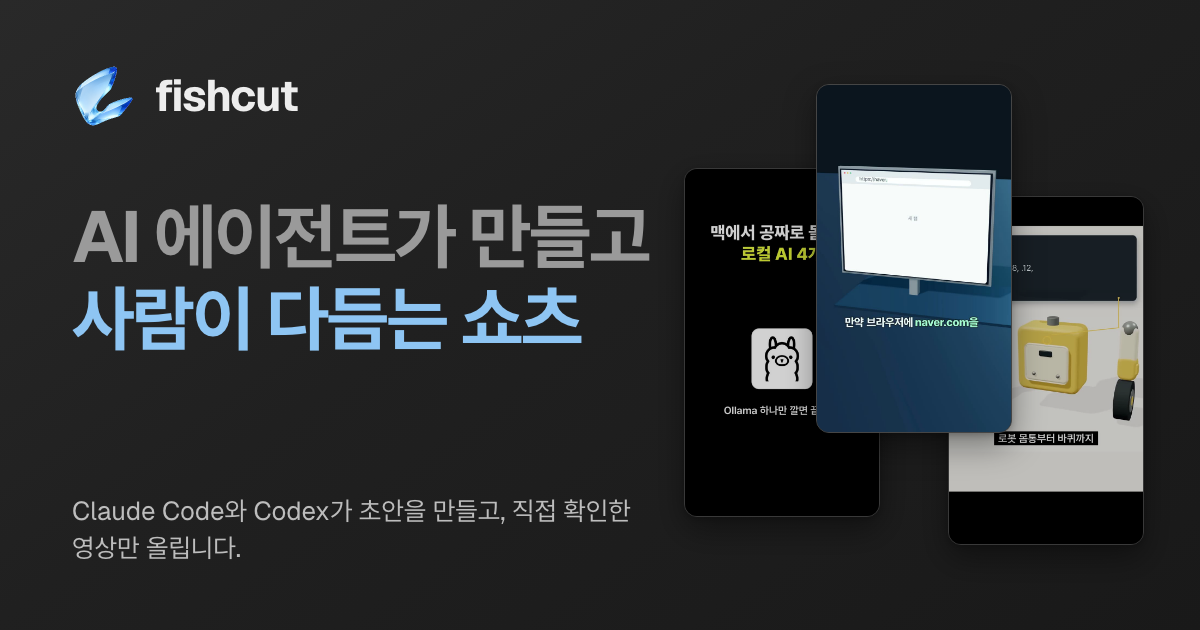
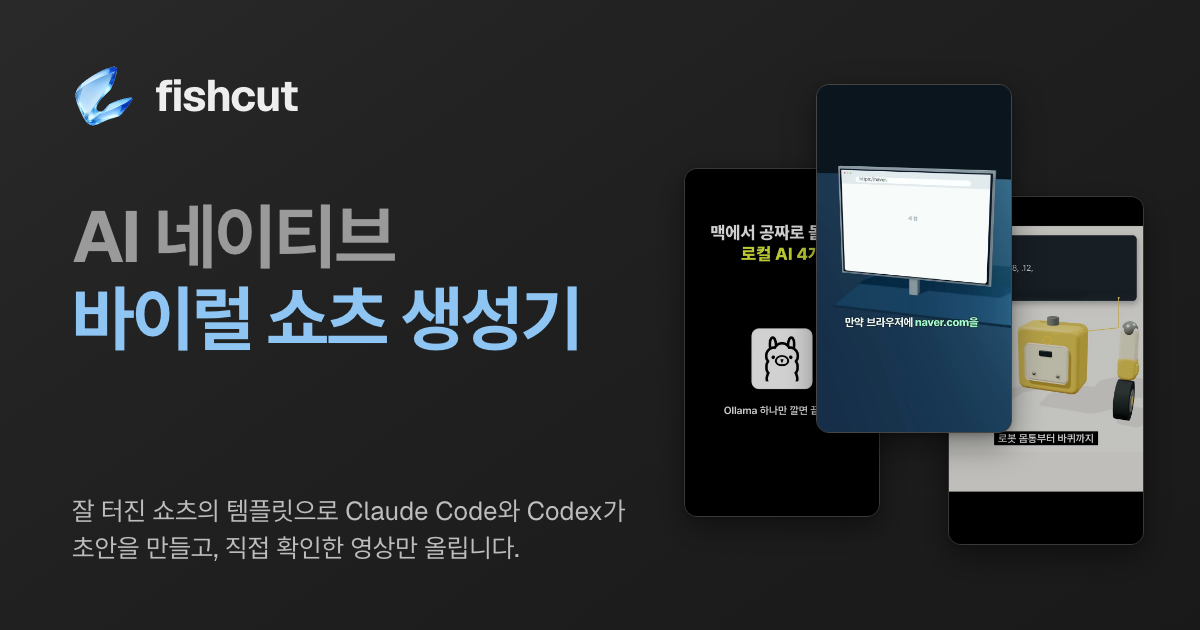
feat(site): AI 네이티브 바이럴 쇼츠 생성기로 제목, OG, 설명 갱신 (#21)

Changed region(s): [[0.0617, 0.3016, 0.555, 0.573], [0.0617, 0.7841, 0.5242, 0.9048], [0.1233, 0.3317, 0.1542, 0.4222]]

diff --git a/index.html b/index.html
@@ -3,25 +3,25 @@
 <head>
   <meta charset="utf-8">
   <meta name="viewport" content="width=device-width, initial-scale=1">
-  <title>fishcut | AI 에이전트가 만들고 사람이 다듬는 쇼츠 에디터</title>
-  <meta name="description" content="Claude Code나 Codex에 주제를 한 문장으로 맡기면 대본, 음성, 자막, 렌더까지 초안이 나오고, 사람은 에디터에서 고친 뒤 직접 확인한 영상만 YouTube에 올립니다. 내 컴퓨터에서 도는 MIT 오픈소스 쇼츠 에디터입니다.">
+  <title>fishcut | AI 네이티브 바이럴 쇼츠 생성기</title>
+  <meta name="description" content="잘 터진 쇼츠에서 뽑은 템플릿으로 Claude Code나 Codex가 대본, 음성, 자막, 렌더까지 초안을 만들고, 사람은 에디터에서 고친 뒤 직접 확인한 영상만 YouTube에 올립니다. 내 컴퓨터에서 도는 MIT 오픈소스 쇼츠 생성기입니다.">
   <link rel="canonical" href="https://fishcut.nomadamas.org/">
   <link rel="alternate" hreflang="ko" href="https://fishcut.nomadamas.org/">
   <link rel="alternate" hreflang="en" href="https://fishcut.nomadamas.org/en/">
   <link rel="alternate" hreflang="x-default" href="https://fishcut.nomadamas.org/en/">
   <meta property="og:type" content="website">
   <meta property="og:site_name" content="fishcut">
-  <meta property="og:title" content="fishcut | AI 에이전트가 만들고 사람이 다듬는 쇼츠 에디터">
-  <meta property="og:description" content="Claude Code나 Codex에 주제를 한 문장으로 맡기면 대본, 음성, 자막, 렌더까지 초안이 나오고, 사람은 에디터에서 고친 뒤 직접 확인한 영상만 YouTube에 올립니다. 내 컴퓨터에서 도는 MIT 오픈소스 쇼츠 에디터입니다.">
+  <meta property="og:title" content="fishcut | AI 네이티브 바이럴 쇼츠 생성기">
+  <meta property="og:description" content="잘 터진 쇼츠에서 뽑은 템플릿으로 Claude Code나 Codex가 대본, 음성, 자막, 렌더까지 초안을 만들고, 사람은 에디터에서 고친 뒤 직접 확인한 영상만 YouTube에 올립니다. 내 컴퓨터에서 도는 MIT 오픈소스 쇼츠 생성기입니다.">
   <meta property="og:url" content="https://fishcut.nomadamas.org/">
   <meta property="og:locale" content="ko_KR">
   <meta property="og:image" content="https://fishcut.nomadamas.org/assets/og-image-ko.png">
   <meta property="og:image:width" content="1200">
   <meta property="og:image:height" content="630">
-  <meta property="og:image:alt" content="fishcut 로고와 쇼츠 화면 세 장. AI 에이전트가 만들고 사람이 다듬는 쇼츠 에디터">
+  <meta property="og:image:alt" content="fishcut 로고와 쇼츠 화면 세 장. AI 네이티브 바이럴 쇼츠 생성기">
   <meta name="twitter:card" content="summary_large_image">
-  <meta name="twitter:title" content="fishcut | AI 에이전트가 만들고 사람이 다듬는 쇼츠 에디터">
-  <meta name="twitter:description" content="Claude Code나 Codex에 주제를 한 문장으로 맡기면 대본, 음성, 자막, 렌더까지 초안이 나오고, 사람은 에디터에서 고친 뒤 직접 확인한 영상만 YouTube에 올립니다. 내 컴퓨터에서 도는 MIT 오픈소스 쇼츠 에디터입니다.">
+  <meta name="twitter:title" content="fishcut | AI 네이티브 바이럴 쇼츠 생성기">
+  <meta name="twitter:description" content="잘 터진 쇼츠에서 뽑은 템플릿으로 Claude Code나 Codex가 대본, 음성, 자막, 렌더까지 초안을 만들고, 사람은 에디터에서 고친 뒤 직접 확인한 영상만 YouTube에 올립니다. 내 컴퓨터에서 도는 MIT 오픈소스 쇼츠 생성기입니다.">
   <meta name="twitter:image" content="https://fishcut.nomadamas.org/assets/og-image-ko.png">
   <meta name="color-scheme" content="dark">
   <meta name="darkreader-lock">
@@ -70,7 +70,7 @@
           <span class="l1"><span class="sr-only">AI 에이전트가</span><span class="agent-word key nowrap" aria-hidden="true" data-agent-word><img class="agent-logo" src="assets/agents/claude.svg" width="24" height="24" alt=""><span class="agent-type"><span data-agent-name>Claude가</span><span class="caret"></span></span></span> <span class="nowrap">만들고</span></span>
           <span class="l2"><em class="key nowrap">사람이 다듬는</em> <span class="nowrap">쇼츠 에디터</span></span>
         </h1>
-        <p class="hero-en" lang="en">Agentic Shorts editor for coding agents</p>
+        <p class="hero-en" lang="en">AI-native viral shorts generator</p>
         <p class="hero-body">쓰던 코딩 에이전트에 주제를 한 문장으로 맡기면, 잘 터진 쇼츠에서 뽑은 템플릿으로 대본, 음성, 자막, 렌더까지 초안이 나옵니다. 사람은 에디터에서 고치고, 직접 확인한 영상만 YouTube에 올립니다.</p>
         <div class="agent-strip">
           <p class="agent-strip-label">쓰던 에이전트에서 시작합니다.</p>
@@ -659,7 +659,7 @@
           <img class="mark" src="assets/fishcut-logo.svg" width="28" height="28" alt="" decoding="async">
           <span>fishcut</span>
         </a>
-        <p>AI 에이전트가 만들고 사람이 다듬는 쇼츠 에디터</p>
+        <p>AI 네이티브 바이럴 쇼츠 생성기</p>
       </div>
       <nav class="footer-links" aria-label="꼬리말 링크">
         <ul>

diff --git a/en/index.html b/en/index.html
@@ -3,25 +3,25 @@
 <head>
   <meta charset="utf-8">
   <meta name="viewport" content="width=device-width, initial-scale=1">
-  <title>fishcut | The shorts editor where AI agents draft and people finish</title>
-  <meta name="description" content="Give Claude Code or Codex a topic in one sentence and get a draft with script, voice, captions, and render. You fix it in the editor and upload to YouTube only the videos you have checked yourself. fishcut is an MIT-licensed open source shorts editor that runs on your computer.">
+  <title>fishcut | AI-native viral shorts generator</title>
+  <meta name="description" content="Claude Code or Codex drafts the script, voice, captions, and render with a template drawn from shorts that took off. You fix it in the editor and upload to YouTube only the videos you have checked yourself. fishcut is an MIT-licensed open source shorts generator that runs on your computer.">
   <link rel="canonical" href="https://fishcut.nomadamas.org/en/">
   <link rel="alternate" hreflang="ko" href="https://fishcut.nomadamas.org/">
   <link rel="alternate" hreflang="en" href="https://fishcut.nomadamas.org/en/">
   <link rel="alternate" hreflang="x-default" href="https://fishcut.nomadamas.org/en/">
   <meta property="og:type" content="website">
   <meta property="og:site_name" content="fishcut">
-  <meta property="og:title" content="fishcut | The shorts editor where AI agents draft and people finish">
-  <meta property="og:description" content="Give Claude Code or Codex a topic in one sentence and get a draft with script, voice, captions, and render. You fix it in the editor and upload to YouTube only the videos you have checked yourself. fishcut is an MIT-licensed open source shorts editor that runs on your computer.">
+  <meta property="og:title" content="fishcut | AI-native viral shorts generator">
+  <meta property="og:description" content="Claude Code or Codex drafts the script, voice, captions, and render with a template drawn from shorts that took off. You fix it in the editor and upload to YouTube only the videos you have checked yourself. fishcut is an MIT-licensed open source shorts generator that runs on your computer.">
   <meta property="og:url" content="https://fishcut.nomadamas.org/en/">
   <meta property="og:locale" content="en_US">
   <meta property="og:image" content="https://fishcut.nomadamas.org/assets/og-image.png">
   <meta property="og:image:width" content="1200">
   <meta property="og:image:height" content="630">
-  <meta property="og:image:alt" content="The fishcut logo beside three shorts screens. AI agents draft shorts, you finish them">
+  <meta property="og:image:alt" content="The fishcut logo beside three shorts screens. AI-native viral shorts generator">
   <meta name="twitter:card" content="summary_large_image">
-  <meta name="twitter:title" content="fishcut | The shorts editor where AI agents draft and people finish">
-  <meta name="twitter:description" content="Give Claude Code or Codex a topic in one sentence and get a draft with script, voice, captions, and render. You fix it in the editor and upload to YouTube only the videos you have checked yourself. fishcut is an MIT-licensed open source shorts editor that runs on your computer.">
+  <meta name="twitter:title" content="fishcut | AI-native viral shorts generator">
+  <meta name="twitter:description" content="Claude Code or Codex drafts the script, voice, captions, and render with a template drawn from shorts that took off. You fix it in the editor and upload to YouTube only the videos you have checked yourself. fishcut is an MIT-licensed open source shorts generator that runs on your computer.">
   <meta name="twitter:image" content="https://fishcut.nomadamas.org/assets/og-image.png">
   <meta name="color-scheme" content="dark">
   <meta name="darkreader-lock">
@@ -70,7 +70,7 @@
           <span class="l1"><span class="sr-only">An AI agent</span><span class="agent-word key nowrap" aria-hidden="true" data-agent-word><img class="agent-logo" src="../assets/agents/claude.svg" width="24" height="24" alt=""><span class="agent-type"><span data-agent-name>Claude</span><span class="caret"></span></span></span> <span class="nowrap">drafts shorts.</span></span>
           <span class="l2"><em class="key nowrap">You finish them.</em></span>
         </h1>
-        <p class="hero-en" lang="en">Agentic Shorts editor for coding agents</p>
+        <p class="hero-en" lang="en">AI-native viral shorts generator</p>
         <p class="hero-body">Give your coding agent a topic in one sentence, and it drafts the script, voice, captions, and render with a template drawn from shorts that took off. You fix the draft in the editor and upload to YouTube only the videos you have checked yourself.</p>
         <div class="agent-strip">
           <p class="agent-strip-label">Start from the agent you already use.</p>
@@ -659,7 +659,7 @@
           <img class="mark" src="../assets/fishcut-logo.svg" width="28" height="28" alt="" decoding="async">
           <span>fishcut</span>
         </a>
-        <p>The shorts editor where AI agents draft and people finish</p>
+        <p>AI-native viral shorts generator</p>
       </div>
       <nav class="footer-links" aria-label="Footer links">
         <ul>

diff --git a/404.html b/404.html
@@ -4,7 +4,7 @@
   <meta charset="utf-8">
   <meta name="viewport" content="width=device-width, initial-scale=1">
   <title>페이지를 찾을 수 없습니다 | fishcut</title>
-  <meta name="description" content="Claude Code나 Codex에 주제를 한 문장으로 맡기면 대본, 음성, 자막, 렌더까지 초안이 나오고, 사람은 에디터에서 고친 뒤 직접 확인한 영상만 YouTube에 올립니다. 내 컴퓨터에서 도는 MIT 오픈소스 쇼츠 에디터입니다.">
+  <meta name="description" content="잘 터진 쇼츠에서 뽑은 템플릿으로 Claude Code나 Codex가 대본, 음성, 자막, 렌더까지 초안을 만들고, 사람은 에디터에서 고친 뒤 직접 확인한 영상만 YouTube에 올립니다. 내 컴퓨터에서 도는 MIT 오픈소스 쇼츠 생성기입니다.">
   <meta name="robots" content="noindex">
   <meta name="color-scheme" content="dark">
   <meta name="darkreader-lock">
@@ -60,7 +60,7 @@
           <img class="mark" src="/assets/fishcut-logo.svg" width="28" height="28" alt="" decoding="async">
           <span>fishcut</span>
         </a>
-        <p>AI 에이전트가 만들고 사람이 다듬는 쇼츠 에디터</p>
+        <p>AI 네이티브 바이럴 쇼츠 생성기</p>
       </div>
       <nav class="footer-links" aria-label="꼬리말 링크">
         <ul>

diff --git a/terms/index.html b/terms/index.html
@@ -18,7 +18,7 @@
   <meta property="og:image" content="https://fishcut.nomadamas.org/assets/og-image-ko.png">
   <meta property="og:image:width" content="1200">
   <meta property="og:image:height" content="630">
-  <meta property="og:image:alt" content="fishcut 로고와 쇼츠 화면 세 장. AI 에이전트가 만들고 사람이 다듬는 쇼츠 에디터">
+  <meta property="og:image:alt" content="fishcut 로고와 쇼츠 화면 세 장. AI 네이티브 바이럴 쇼츠 생성기">
   <meta name="twitter:card" content="summary_large_image">
   <meta name="twitter:title" content="이용약관 | fishcut">
   <meta name="twitter:description" content="fishcut 소프트웨어와 이 웹사이트를 쓸 때 지켜야 할 약속입니다. fishcut은 YouTube API Services를 쓰므로 YouTube 서비스 약관도 함께 적용됩니다. Instagram이나 TikTok으로 올리면 Meta와 TikTok의 약관도 적용됩니다.">
@@ -181,7 +181,7 @@
           <img class="mark" src="../assets/fishcut-logo.svg" width="28" height="28" alt="" decoding="async">
           <span>fishcut</span>
         </a>
-        <p>AI 에이전트가 만들고 사람이 다듬는 쇼츠 에디터</p>
+        <p>AI 네이티브 바이럴 쇼츠 생성기</p>
       </div>
       <nav class="footer-links" aria-label="꼬리말 링크">
         <ul>

diff --git a/how-it-works/index.html b/how-it-works/index.html
@@ -18,7 +18,7 @@
   <meta property="og:image" content="https://fishcut.nomadamas.org/assets/og-image-ko.png">
   <meta property="og:image:width" content="1200">
   <meta property="og:image:height" content="630">
-  <meta property="og:image:alt" content="fishcut 로고와 쇼츠 화면 세 장. AI 에이전트가 만들고 사람이 다듬는 쇼츠 에디터">
+  <meta property="og:image:alt" content="fishcut 로고와 쇼츠 화면 세 장. AI 네이티브 바이럴 쇼츠 생성기">
   <meta name="twitter:card" content="summary_large_image">
   <meta name="twitter:title" content="업로드 동작 설명 | fishcut">
   <meta name="twitter:description" content="fishcut이 YouTube에 연결하고 영상을 올리는 과정, 저장하는 데이터, 권한을 취소하는 방법입니다. Google 검증 담당자와 처음 연결하는 사용자를 위해 한 페이지에 모았습니다.">
@@ -232,7 +232,7 @@
           <img class="mark" src="../assets/fishcut-logo.svg" width="28" height="28" alt="" decoding="async">
           <span>fishcut</span>
         </a>
-        <p>AI 에이전트가 만들고 사람이 다듬는 쇼츠 에디터</p>
+        <p>AI 네이티브 바이럴 쇼츠 생성기</p>
       </div>
       <nav class="footer-links" aria-label="꼬리말 링크">
         <ul>

diff --git a/privacy/index.html b/privacy/index.html
@@ -18,7 +18,7 @@
   <meta property="og:image" content="https://fishcut.nomadamas.org/assets/og-image-ko.png">
   <meta property="og:image:width" content="1200">
   <meta property="og:image:height" content="630">
-  <meta property="og:image:alt" content="fishcut 로고와 쇼츠 화면 세 장. AI 에이전트가 만들고 사람이 다듬는 쇼츠 에디터">
+  <meta property="og:image:alt" content="fishcut 로고와 쇼츠 화면 세 장. AI 네이티브 바이럴 쇼츠 생성기">
   <meta name="twitter:card" content="summary_large_image">
   <meta name="twitter:title" content="개인정보처리방침 | fishcut">
   <meta name="twitter:description" content="fishcut이 어떤 정보를 어디에 저장하고 어디에 쓰는지 설명합니다. fishcut은 사용자의 컴퓨터에서 실행되는 소프트웨어이고, NomaDamas는 사용자의 데이터를 받지 않습니다.">
@@ -272,7 +272,7 @@
           <img class="mark" src="../assets/fishcut-logo.svg" width="28" height="28" alt="" decoding="async">
           <span>fishcut</span>
         </a>
-        <p>AI 에이전트가 만들고 사람이 다듬는 쇼츠 에디터</p>
+        <p>AI 네이티브 바이럴 쇼츠 생성기</p>
       </div>
       <nav class="footer-links" aria-label="꼬리말 링크">
         <ul>

diff --git a/en/terms/index.html b/en/terms/index.html
@@ -18,7 +18,7 @@
   <meta property="og:image" content="https://fishcut.nomadamas.org/assets/og-image.png">
   <meta property="og:image:width" content="1200">
   <meta property="og:image:height" content="630">
-  <meta property="og:image:alt" content="The fishcut logo beside three shorts screens. AI agents draft shorts, you finish them">
+  <meta property="og:image:alt" content="The fishcut logo beside three shorts screens. AI-native viral shorts generator">
   <meta name="twitter:card" content="summary_large_image">
   <meta name="twitter:title" content="Terms of Service | fishcut">
   <meta name="twitter:description" content="These are the terms you must follow when you use the fishcut software and this website. Because fishcut uses YouTube API Services, the YouTube Terms of Service also apply. If you upload to Instagram or TikTok, the terms of Meta and TikTok apply as well.">
@@ -181,7 +181,7 @@
           <img class="mark" src="../../assets/fishcut-logo.svg" width="28" height="28" alt="" decoding="async">
           <span>fishcut</span>
         </a>
-        <p>The shorts editor where AI agents draft and people finish</p>
+        <p>AI-native viral shorts generator</p>
       </div>
       <nav class="footer-links" aria-label="Footer links">
         <ul>

diff --git a/en/how-it-works/index.html b/en/how-it-works/index.html
@@ -18,7 +18,7 @@
   <meta property="og:image" content="https://fishcut.nomadamas.org/assets/og-image.png">
   <meta property="og:image:width" content="1200">
   <meta property="og:image:height" content="630">
-  <meta property="og:image:alt" content="The fishcut logo beside three shorts screens. AI agents draft shorts, you finish them">
+  <meta property="og:image:alt" content="The fishcut logo beside three shorts screens. AI-native viral shorts generator">
   <meta name="twitter:card" content="summary_large_image">
   <meta name="twitter:title" content="How uploads work | fishcut">
   <meta name="twitter:description" content="This page explains how fishcut connects to YouTube and uploads videos, what data it stores, and how to revoke access. It is gathered on one page for Google reviewers and for users connecting for the first time.">
@@ -232,7 +232,7 @@
           <img class="mark" src="../../assets/fishcut-logo.svg" width="28" height="28" alt="" decoding="async">
           <span>fishcut</span>
         </a>
-        <p>The shorts editor where AI agents draft and people finish</p>
+        <p>AI-native viral shorts generator</p>
       </div>
       <nav class="footer-links" aria-label="Footer links">
         <ul>

diff --git a/en/privacy/index.html b/en/privacy/index.html
@@ -18,7 +18,7 @@
   <meta property="og:image" content="https://fishcut.nomadamas.org/assets/og-image.png">
   <meta property="og:image:width" content="1200">
   <meta property="og:image:height" content="630">
-  <meta property="og:image:alt" content="The fishcut logo beside three shorts screens. AI agents draft shorts, you finish them">
+  <meta property="og:image:alt" content="The fishcut logo beside three shorts screens. AI-native viral shorts generator">
   <meta name="twitter:card" content="summary_large_image">
   <meta name="twitter:title" content="Privacy Policy | fishcut">
   <meta name="twitter:description" content="This policy explains what information fishcut stores, where it stores it, and what it uses it for. fishcut is software that runs on your computer, and NomaDamas does not receive your data.">
@@ -272,7 +272,7 @@
           <img class="mark" src="../../assets/fishcut-logo.svg" width="28" height="28" alt="" decoding="async">
           <span>fishcut</span>
         </a>
-        <p>The shorts editor where AI agents draft and people finish</p>
+        <p>AI-native viral shorts generator</p>
       </div>
       <nav class="footer-links" aria-label="Footer links">
         <ul>

diff --git a/src/ko/home.html b/src/ko/home.html
@@ -5,7 +5,7 @@
           <span class="l1"><span class="sr-only">AI 에이전트가</span><span class="agent-word key nowrap" aria-hidden="true" data-agent-word><img class="agent-logo" src="{{root}}assets/agents/claude.svg" width="24" height="24" alt=""><span class="agent-type"><span data-agent-name>Claude가</span><span class="caret"></span></span></span> <span class="nowrap">만들고</span></span>
           <span class="l2"><em class="key nowrap">사람이 다듬는</em> <span class="nowrap">쇼츠 에디터</span></span>
         </h1>
-        <p class="hero-en" lang="en">Agentic Shorts editor for coding agents</p>
+        <p class="hero-en" lang="en">AI-native viral shorts generator</p>
         <p class="hero-body">쓰던 코딩 에이전트에 주제를 한 문장으로 맡기면, 잘 터진 쇼츠에서 뽑은 템플릿으로 대본, 음성, 자막, 렌더까지 초안이 나옵니다. 사람은 에디터에서 고치고, 직접 확인한 영상만 YouTube에 올립니다.</p>
         <div class="agent-strip">
           <p class="agent-strip-label">쓰던 에이전트에서 시작합니다.</p>

diff --git a/src/en/home.html b/src/en/home.html
@@ -5,7 +5,7 @@
           <span class="l1"><span class="sr-only">An AI agent</span><span class="agent-word key nowrap" aria-hidden="true" data-agent-word><img class="agent-logo" src="{{root}}assets/agents/claude.svg" width="24" height="24" alt=""><span class="agent-type"><span data-agent-name>Claude</span><span class="caret"></span></span></span> <span class="nowrap">drafts shorts.</span></span>
           <span class="l2"><em class="key nowrap">You finish them.</em></span>
         </h1>
-        <p class="hero-en" lang="en">Agentic Shorts editor for coding agents</p>
+        <p class="hero-en" lang="en">AI-native viral shorts generator</p>
         <p class="hero-body">Give your coding agent a topic in one sentence, and it drafts the script, voice, captions, and render with a template drawn from shorts that took off. You fix the draft in the editor and upload to YouTube only the videos you have checked yourself.</p>
         <div class="agent-strip">
           <p class="agent-strip-label">Start from the agent you already use.</p>

diff --git a/tools/og/og.html b/tools/og/og.html
@@ -54,8 +54,8 @@
 </div>
 <script>
   const T = {
-    en: { l1: "AI agents draft shorts.", l2: "You finish them.", sub: "Claude Code and Codex draft. You edit and upload only what you checked.", hero: "rea-reverse-engineer-en.jpg" },
-    ko: { l1: "AI 에이전트가 만들고", l2: "사람이 다듬는 쇼츠", sub: "Claude Code와 Codex가 초안을 만들고, 직접 확인한 영상만 올립니다.", hero: "browser-journey-ko.jpg" },
+    en: { l1: "AI-native viral", l2: "shorts generator", sub: "Templates from shorts that took off. Agents draft, you upload only what you checked.", hero: "rea-reverse-engineer-en.jpg" },
+    ko: { l1: "AI 네이티브", l2: "바이럴 쇼츠 생성기", sub: "잘 터진 쇼츠의 템플릿으로 Claude Code와 Codex가 초안을 만들고, 직접 확인한 영상만 올립니다.", hero: "browser-journey-ko.jpg" },
   };
   const lang = new URLSearchParams(location.search).get("lang") === "ko" ? "ko" : "en";
   const t = T[lang];
